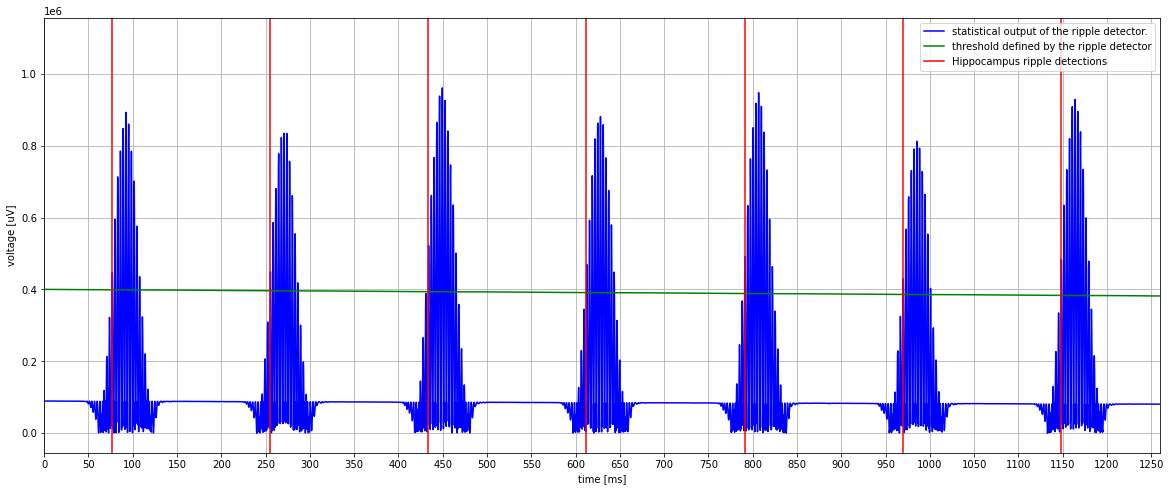
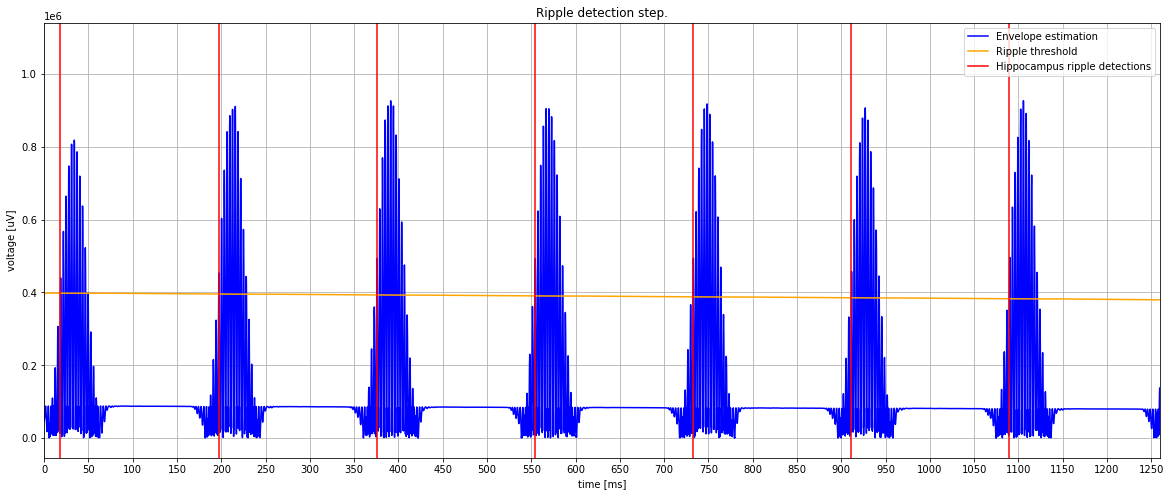
fix lockout options/states name - after Lies discussion

Changed region(s): [[0.0, 0.1833, 1.0, 0.8859], [0.0307, 0.0, 1.0, 0.1833], [0.0307, 0.9165, 1.0, 0.947]]

diff --git a/processors/eventdelayed/eventdelayed.hpp b/processors/eventdelayed/eventdelayed.hpp
@@ -104,8 +104,8 @@ protected:
 
   // CONSTANT
 protected:
-  const std::string DISABLED_S = "disabled mode";
-  const std::string DISABLED_S = "delayed mode";
-  const std::string STOP_DETECTION_TIME_S = "stop detection time";
-  const std::string STOP_ANALYSIS_TIME_S = "stop analysis time";
+  const std::string DISABLED_S = "detection only mode";
+  const std::string DELAYED_S = "delayed mode";
+  const std::string STOP_DETECTION_TIME_S = "analysis lockout time";
+  const std::string STOP_ANALYSIS_TIME_S = "event trigger lockout time";
 };

diff --git a/processors/rippledetector/rippledetector.hpp b/processors/rippledetector/rippledetector.hpp
@@ -79,7 +79,7 @@ class RippleDetector : public IProcessor {
   const unsigned int N_STATS_OUT = 2;
   const std::string THRESHOLD_DEV = "threshold dev";
   const std::string SMOOTH_TIME = "smooth time";
-  const std::string DETECTION_LOCKOUT_TIME = "detection lockout time";
+  const std::string DETECTION_LOCKOUT_TIME = "analysis lockout time";
   const std::string STREAM_EVENTS = "stream events";
   const std::string STREAM_STATISTICS = "stream statistics";
 

diff --git a/docs/examples/ripple_detection.rst b/docs/examples/ripple_detection.rst
@@ -4,40 +4,40 @@ Hippocampal ripple detection
 Overview
 --------
 
-
-
 Implementation
 --------------
 
 Algorithm
 .........
 
-- **Recording**: the hippocampal activity is recorded at 4 or 32 kHz depending on the experiment.
-  Experiments that only focus on SWR are done at 4 kHz, whereas those that also use single cell
-  signal (between 300 and 6000 Hz) have to be recorded at 32 kHz.
+- **Recording**: the hippocampal activity is recorded between 4 and 32 kHz depending on the type of experiment.
+  Experiments that only focus on SWR are usually done at 4 kHz, whereas those that also require spikes (to look at unit activity)
+  between 300 and 6000 Hz) have to be recorded at 32 kHz.
 
 .. image:: ../images/ripple_source.png
    :width: 120 %
 
-- **Filtering**: the filter is a Chebyshev type II with a pass-band from 130 to 283 Hz and
-  transition edges of 10%. This specific design comes from the initial wish to reject as many gamma bursts as possible.
+
+- **Filtering**: the filter is a band-pass Chebyshev type II filtering between 130 to 283 Hz and
+  with transition edges of 10%. This specific design is chosen to minimise the detection of gamma bursts. The type of filter used can be change
+  in the graph definition (see next page.)
 
 .. image:: ../images/ripple_filtering.png
    :width: 120 %
 
-- **Envelope estimation**: the simple squared value of the filtered signal is the estimation
-  of the envelope in this algorithm. While neglecting to smooth the signal may lead to
+- **Envelope estimation**: To reduce the computation time, the envelope is estimated using 
+  the squared value of the filtered signal. While neglecting to smooth the signal may lead to
   spurious detections due to outliers, the advantage of speed of detection obtained with
   this choice outweighs the disadvantage of false detections caused by a few rare outliers.
 
-- **Thresholding**: the threshold is permanently modified as the experiment runs.
+- **Thresholding**: the threshold is constantly modified as the experiment runs.
   Indeed, it is based on statistical properties of the envelope which are the mean and the Mean Absolute Deviation (MAD).
   Every time a new value is computed (on the last time bin of 10 ms), it is added to the
   previous statistics with a predefined weight (α).
 
-The corresponding equations are:
+  The corresponding equations are:
 
-.. math::
+  .. math::
 
     mean = (1  -α )* mean + α   * (mean of last time bin)
     
@@ -45,82 +45,53 @@ The corresponding equations are:
     
     threshold = mean + arbitrary factor *MAD
 
-The arbitrary factor is what the user has to tune for every experiment. 
-The higher it is, the less the number of detections will be.
+  The arbitrary factor is what the user has to set for every experiment. 
+  A too low threshold will detect too much noise, a too high threshold will miss the smaller ripples.
 
 .. image:: ../images/ripple_threshold.png
    :width: 120 %
 
 
-- **Cortical channel comparison**: as the rat is moving in its environment, some actions
-  like chewing and bumping lead to artifacts in the neural signal. Fortunately, they are
-  largely spread in the brain so that we can detect them outside hippocampus. This
-  property is harnessed to reject them when they trigger a detection. An electrode records
-  the signal in the cortex (where no SWRs occur) and the ripple detection algorithm is
-  also running on it. If the same event is detected in the hippocampus and in the cortex,
-  it is considered as an artifact and it is directly rejected.
+- **Trigger stimulation**: 
+
+  There are also three modes available to deliver stimulation:
+
+  - detection only - only detections are sent
+  - ontime  - stimulation is sent immediatly after detection
+  - delayed - stimulation is sent after a random time (ms) uniformly chosen from a range specified by the user (see option stimulation_trigger).
+
+  This mode can be changed while Falcon is running by modifying the delayed and detection only state.
 
 
-- **Trigger stimulation**: To avoid over-stimulation, a post-processing technique consists of blocking any detection that
-  occurs less than 150 ms after a stimulation. This is called the lock-out period.
-  There is also three modes to deliver stimulation:
-  - enabled - only detections are sent
-  - ontime  - directly sent after detection
-  - delayed - directly sent detection and then sent stimulation after a uniform-random time (ms) chose in a range (see option of EventDelayed).
+Event filtering
+...............
 
-  This mode can be change in running time by modifying the delayed and enabled state.
+- **Artefact removal using a cortical recording**: as the rat is moving through the environment, 
+  some actions like chewing and bumping lead to artefacts in the neural signal. 
+  Luckily, they are largely spread in the brain, which means we can detect them outside hippocampus. 
+  This property is harnessed to ignore the (false) detections of these artefacts. 
+  An electrode records the signal in the cortex (where no SWRs occur) and the ripple detection algorithm 
+  is also running on it. If a hippocampus detection coincides with a cortex detection 
+  it is considered as an artifact artefact and it is directly rejected.
 
-Graph
-.....
 
-.. image:: ../images/ripple_graph.png
-   :width: 50 %
-   :align: right
 
-**Graph description:**
+- **Avoid overstimulation using a post-stimulation lock-out**: to limit the output stimulation frequency 
+  and avoid overstimulation, stimulations are not triggered in a post-stimulation window defined by the user 
+  (see config file: stimulation_trigger/event trigger lockout time). Usually the output stimulation frequency is 
+  limited to 2 Hz which means a event trigger lock-out period of 250 ms.
 
-- **source** (Neuralynx data): :ref:`NlxReader`
-- **ripple filter 1**: :ref:`MultiChannelFilter`
-- **ripple filter 2**: :ref:`MultiChannelFilter`
-- **hippocampus detector**: :ref:`RippleDetector`
-- **cortex detector**: :ref:`RippleDetector`
-- **network sink** (log signal) : :ref:`ZMQSerializer`
-- **event filter** : :ref:`EventFilter`
-- **event delayed** (trigger stimulation) : :ref:`EventDelayed`
-- **ttl output** (communication to the arduino): :ref:`SerialOutput`
 
-User input in real-time
-.......................
+- **Avoid multiple detections of a single ripple using a post-detection analysis lock-out**: Usually set to 50ms in ripple
+  detector, it ensures once a ripple has been detected, that no new detections or statistics update of the threshold is done. 
+  This value can be set before the experimentation via the option called "analysis lockout time" in the ripple detector.
+  
 
-Processor ripple filter (1-2) (:ref:`RippleDetector`):
+- **Avoid detection of a stimulation artefact using a post-stimulation analysis lock-out**: In ontime mode, this lockout period
+  happend at the same time as the previous described upper. But, when being in delayed mode, the stimulation can occur much later, 
+  adding an artefact. To avoid to assimilate it to a new ripple, a lockout time is trigger after each stimulation to disable the ripple analysis.
+  This time can be set  before the  experimentation via the option called "analysis lockout time" in the stimulation trigger. 
 
-- threshold dev (double)
-- smooth time (double): integration time for signal statistics. Must be a positive number.
-- detection lockout time (double): Current refractory period following threshold crossing that is not considered for  updating signal statistics and for event detection.
-- stream events (bool)
-- stream statistics (bool)
-
-.. note:: As their is two RippleDetectors, these states are available for each processor.
-
-Processor trigger stimulation (:ref:`EventDelayed`):
-
-- delayed (bool) - decide if the stimulation after ripple detection should be delayed or ontime.
-- detection lockout period (double): Current refractory period following a stimulation where the signal is not
-  considered for  updating signal statistics and for event detection to avoid false detection due to electrical spike generated by the stimulation.
-- lockout period (double): Current refractory period following a stimulation where the detection is considered but no
-  stimulation is triggered to avoid over-stimulation.
-
-Lock-out time
-.............
-
-There is 3 different lock-out times which can be confusing.
-
-- In ontime mode, when stimulation and detection are sent at the same time, the post-stimulation detection (stimulation trigger/detection lockout period) and the detection lock-out time (Ripple detector/ detection lockout time) are identical.
-- In delayed mode, the stimulation is sent later. The detection lock-out time will occur after the detection while the post-stimulation lock-out time will occur after the stimulation.
-
-In both case, no detection are recorded during this time and the threshold as well as the statistical signal is not updated.
-A contrario, for the stimulation lock-out time (stimulation trigger/lockout period) occurring after a stimulation, detections are recorded and the statistical signal + threshold
-are updated.
 
 Ripple detection schema in delayed mode:
 
@@ -128,11 +99,11 @@ Ripple detection schema in delayed mode:
    :width: 80%
 
 
-Output through ZMQ network
-..........................
 
-format : (timestamps, [ statistical detector output, threshold])
-
-.. image:: ../images/ripple_threshold.png
-
-.. include:: graph.rst
+.. note:: 
+  
+    During the post-detection and post-stimulation detection lockout 
+    all detections are discarded. However, during the post-stimulation 
+    stimulation lock-out only the stimulation triggers are blocked, detections 
+    are still recorded (if they do not fall within a post-detection 
+    or post-stimulation detection lockout time).

diff --git a/docs/examples/overview.rst b/docs/examples/overview.rst
@@ -1,0 +1,42 @@
+Too Long; Did not read
+======================
+
+
+Here, the important info as a user or as client developper to know about this use-case.
+
+.. image:: ../images/ripple_graph.png
+   :width: 50 %
+   :align: right
+
+
+
+User input in real-time
+.......................
+
+Processor ripple filter (1-2) (:ref:`RippleDetector`):
+
+- threshold dev (double)
+- smooth time (double): integration time for signal statistics. Must be a positive number.
+- detection lockout time (double): Current refractory period following threshold crossing that is not considered for  updating signal statistics and for event detection.
+- stream events (bool)
+- stream statistics (bool)
+
+.. note:: As their is two RippleDetectors, these states are available for each processor.
+
+Processor trigger stimulation (:ref:`EventDelayed`):
+
+- delayed (bool) - decide if the stimulation after ripple detection should be delayed or ontime.
+- detection only (bool) - decide if a stimulation event should be sent
+
+- event trigger lockout time (double): Current refractory period following a stimulation where the signal is not
+  considered for  updating signal statistics and for event detection to avoid false detection due to electrical spike generated by the stimulation.
+- analysis lockout time (double): Current refractory period following a stimulation where the detection is considered but no
+  stimulation is triggered to avoid over-stimulation.
+
+
+Output through ZMQ network
+..........................
+
+format : (timestamps, [ statistical detector output, threshold])
+
+.. image:: ../images/ripple_threshold.png

diff --git a/docs/examples/graph.rst b/docs/examples/graph.rst
@@ -1,6 +1,15 @@
 Ripple detection graph
 ======================
 
+
+The graph is divided in two parts : 
+
+- server-side template
+- user-side graph
+
+The user should called the server-side template and only modified the option is interested on. 
+The graph below is an example : 
+
 .. code-block:: yaml
 
     falcon:
@@ -20,13 +29,13 @@ Ripple detection graph
             options:
                 threshold dev: 3
                 smooth time: 7 # in seconds
-                detection lockout time: 50 #ms  # Post-detection lock-out - remove all detections
+                analysis lockout time: 50 #ms  # Post-detection lock-out - remove all detections
 
         CORTEX_detector :
             options:
                 threshold dev: 12
                 smooth time: 8 # in seconds
-                detection lockout time: 40 #ms
+                analysis lockout time: 40 #ms
 
         eventfilter:
             options:
@@ -38,8 +47,8 @@ Ripple detection graph
         stimulation_trigger:
             options:
                 delayed: true
-                lockout period: 150  # Post-stimulation lock-out - remove all stimulation events / keep detections
-                detection lockout period: 60  # Post-stimulation detection lock-out - remove all detections
+                event trigger lockout time: 150  # Post-stimulation lock-out - remove all stimulation events / keep detections
+                analysis lockout time: 60  # Post-stimulation detection lock-out - remove all detections
                 delay range:
                 - 30
                 - 50
@@ -47,3 +56,8 @@ Ripple detection graph
         ttl_output:
             options:
                 port address:  # port usb where the arduino is plugged
+
+
+For more information, this is the template graph called in background : 
+
+.. literalinclude:: ../../resources/graphs/neuralynx/ripple_detection.yaml

diff --git a/docs/resource.rst b/docs/resource.rst
@@ -16,7 +16,9 @@ Use Case
 ========
 
 .. toctree::
-   :maxdepth: 2
+   :maxdepth: 1
    :glob:
 
    examples/ripple_detection
+   examples/graph
+   examples/overview